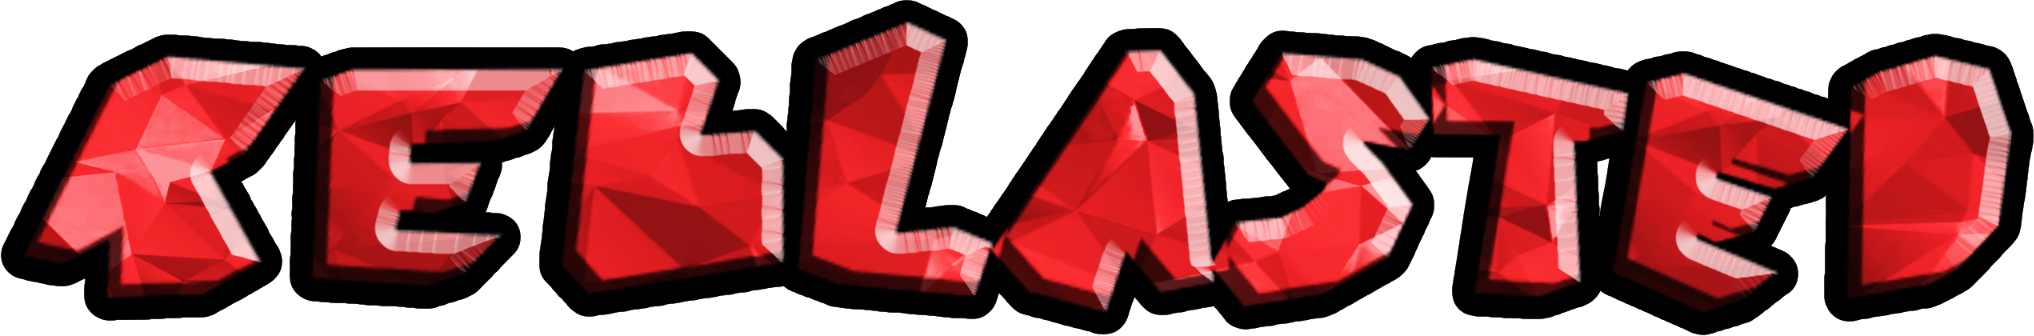
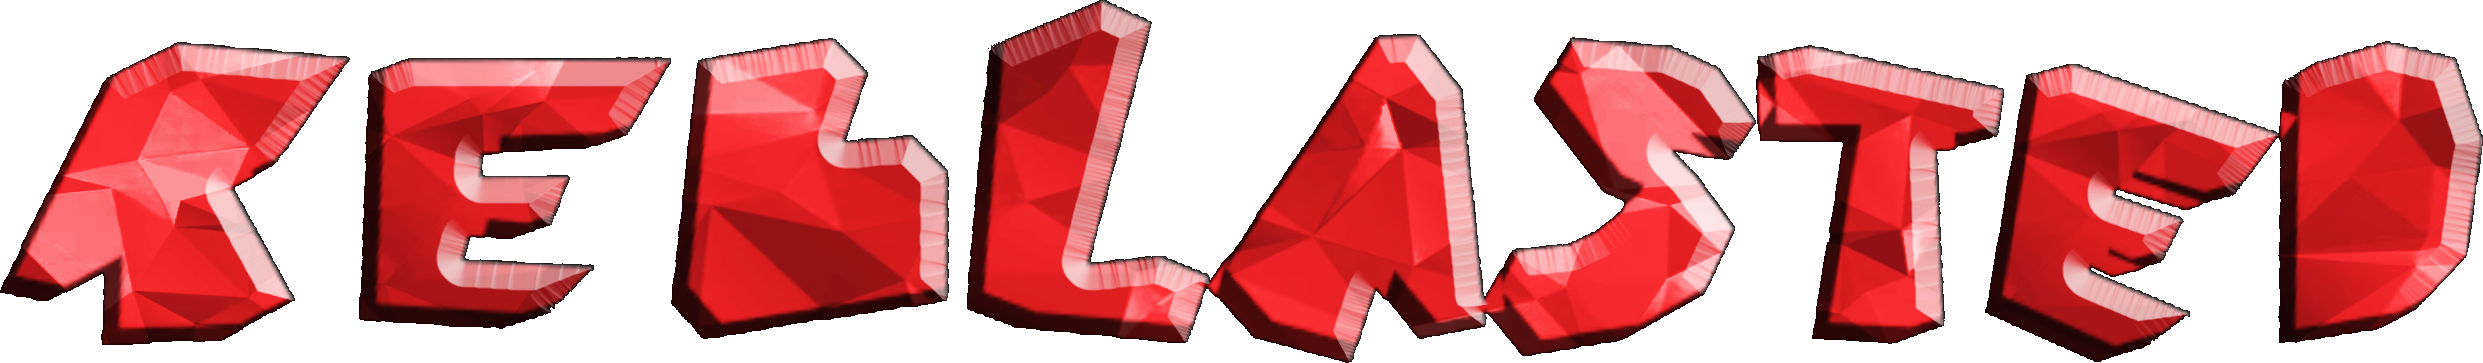
sadsdas

diff --git a/diggerz-server.js b/diggerz-server.js
@@ -47,6 +47,8 @@ const BUILD239_CLIENT_PATH = path.join(__dirname, 'build239-client.js');
 const BUILD240_CLIENT_PATH = path.join(__dirname, 'build240-client.js');
 const TILES_PNG_PATH = path.join(__dirname, 'tiles.png');
 const BKND_PNG_PATH = path.join(__dirname, 'bknd.png');
+const REBLASTED_PNG_PATH = path.join(__dirname, 'reblasted.png');
+const FAVICON_PNG_PATH = path.join(__dirname, 'favicon.png');
 const LEVELUP_OGG_PATH = path.join(__dirname, 'levelup.ogg');
 const MUSIC_OGG_PATHS = [1,2,3,4].map((n,i)=>path.join(__dirname, i===0?'music_theme.ogg':`music_theme${n}.ogg`));
 const BALLOON_POP_OGG_PATH = path.join(__dirname, 'balloon_pop.ogg');
@@ -396,6 +398,8 @@ let build239ClientJs = null;
 let build240ClientJs = null;
 let tilesPng = null;
 let bkndPng = null;
+let reblastedPng = null;
+let faviconPng = null;
 let levelupOgg = null;
 let musicOgg = [null,null,null,null];
 let balloonPopOgg = null;
@@ -408,6 +412,8 @@ try { build239ClientJs = fs.readFileSync(BUILD239_CLIENT_PATH); } catch (error) 
 try { build240ClientJs = fs.readFileSync(BUILD240_CLIENT_PATH); } catch (error) { console.warn('[Diggerz] build240-client.js not found:', error.message); }
 try { tilesPng = fs.readFileSync(TILES_PNG_PATH); } catch (error) { console.warn('[Diggerz] tiles.png not found:', error.message); }
 try { bkndPng = fs.readFileSync(BKND_PNG_PATH); } catch (error) { console.warn('[Diggerz] bknd.png not found:', error.message); }
+try { reblastedPng = fs.readFileSync(REBLASTED_PNG_PATH); } catch (error) { console.warn('[Diggerz] reblasted.png not found:', error.message); }
+try { faviconPng = fs.readFileSync(FAVICON_PNG_PATH); } catch (error) { console.warn('[Diggerz] favicon.png not found:', error.message); }
 try { levelupOgg = fs.readFileSync(LEVELUP_OGG_PATH); } catch (error) { console.warn('[Diggerz] levelup.ogg not found:', error.message); }
 for (let i=0;i<MUSIC_OGG_PATHS.length;i++) try { musicOgg[i]=fs.readFileSync(MUSIC_OGG_PATHS[i]); } catch(error) { console.warn(`[Diggerz] music theme ${i+1} not found:`,error.message); }
 try { balloonPopOgg=fs.readFileSync(BALLOON_POP_OGG_PATH); } catch(error) { console.warn('[Diggerz] balloon_pop.ogg not found:',error.message); }
@@ -2941,7 +2947,7 @@ function buildItchClientZip() {
 
   let itchHtml = gameHtml.toString('utf8');
   const localAssets = [
-    'tiles.png','bknd.png','levelup.ogg',
+    'tiles.png','bknd.png','reblasted.png','favicon.png','levelup.ogg',
     'music_theme.ogg','music_theme2.ogg','music_theme3.ogg','music_theme4.ogg',
     'balloon_pop.ogg','swap.ogg','mule.ogg','build239-client.js','build240-client.js'
   ];
@@ -2961,6 +2967,8 @@ function buildItchClientZip() {
     { name: 'index.html', data: Buffer.from(itchHtml, 'utf8') },
     { name: 'tiles.png', data: tilesPng },
     { name: 'bknd.png', data: bkndPng },
+    { name: 'reblasted.png', data: reblastedPng },
+    { name: 'favicon.png', data: faviconPng },
     { name: 'levelup.ogg', data: levelupOgg },
     { name: 'music_theme.ogg', data: musicOgg[0] },
     { name: 'music_theme2.ogg', data: musicOgg[1] },
@@ -3050,6 +3058,8 @@ const server = http.createServer(async (req, res) => {
   if (urlPath === '/build240-client.js') { serveBuffer(res,build240ClientJs,'application/javascript; charset=utf-8'); return; }
   if (urlPath === '/tiles.png') { serveBuffer(res,tilesPng,'image/png'); return; }
   if (urlPath === '/bknd.png') { serveBuffer(res,bkndPng,'image/png'); return; }
+  if (urlPath === '/reblasted.png') { serveBuffer(res,reblastedPng,'image/png'); return; }
+  if (urlPath === '/favicon.png' || urlPath === '/favicon.ico') { serveBuffer(res,faviconPng,'image/png'); return; }
   if (urlPath === '/levelup.ogg') { serveBuffer(res,levelupOgg,'audio/ogg'); return; }
   if (urlPath === '/music_theme.ogg') { serveBuffer(res,musicOgg[0],'audio/ogg'); return; }
   if (urlPath === '/music_theme2.ogg') { serveBuffer(res,musicOgg[1],'audio/ogg'); return; }
